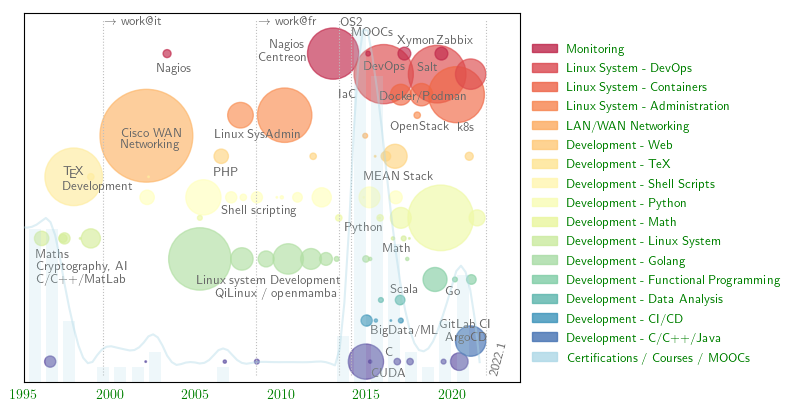
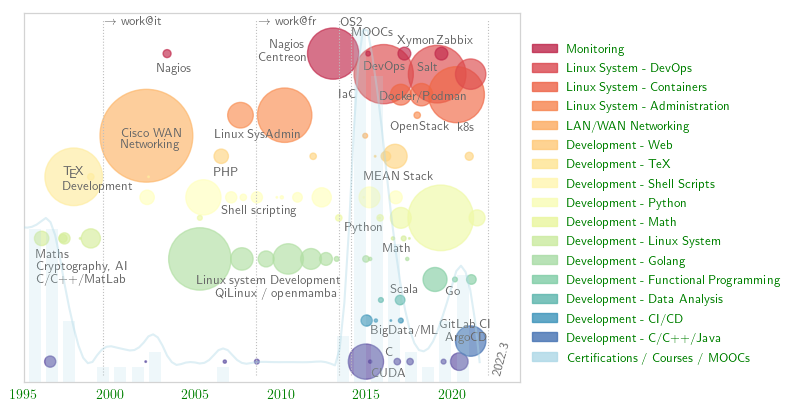
plot: make the image frame less visible

Changed region(s): [[0.603, 0.8175, 0.6332, 0.9343], [0.0302, 0.9051, 0.0603, 0.9343], [0.0302, 0.0292, 0.0603, 0.0584]]

diff --git a/scripts/plot-experiences.py b/scripts/plot-experiences.py
@@ -90,12 +90,13 @@ def make_jobs_plot(experiences, area_adj):
         colors.append(e.color)
     assert(len(years) == len(experiences))
 
-    fig, ax = plt.subplots(frameon=False)
-    fig.patch.set_visible(True)
+    # Change the color of the image frame
+    matplotlib.rc('axes',edgecolor='lightgray')
+
+    fig, ax = plt.subplots()
 
     # Create a scatter plot with the job experiences
     ax.scatter(x=years, y=experiences, s=areas, c=colors, alpha=0.65)
-    ax.tick_params(axis='x', colors=text_color, width='bold')
 
     # Add axis labels
     xmin, xmax = 1995, now.year + 2
@@ -107,13 +108,7 @@ def make_jobs_plot(experiences, area_adj):
 
     # Add grid - fixme: yticks[] if set must to be manually adjusted
     ax.set_yticks([])
-    ax.tick_params(axis=u'both', which=u'both', length=0)
-    ax.grid(False)
-
-    # Remove the frame
-    _ = [s.set_visible(False) for s in ax.spines.values()]
-    #_ = [s.set_color("None") for s in ax.spines.values()]
-    #ax.spines["top"].set_linewidth(1)
+    ax.tick_params(labelcolor=text_color, length=0)
 
     # Add vertical dotted lines at the major steps of my working life
     xnow = now.year + normalize(now.month)
